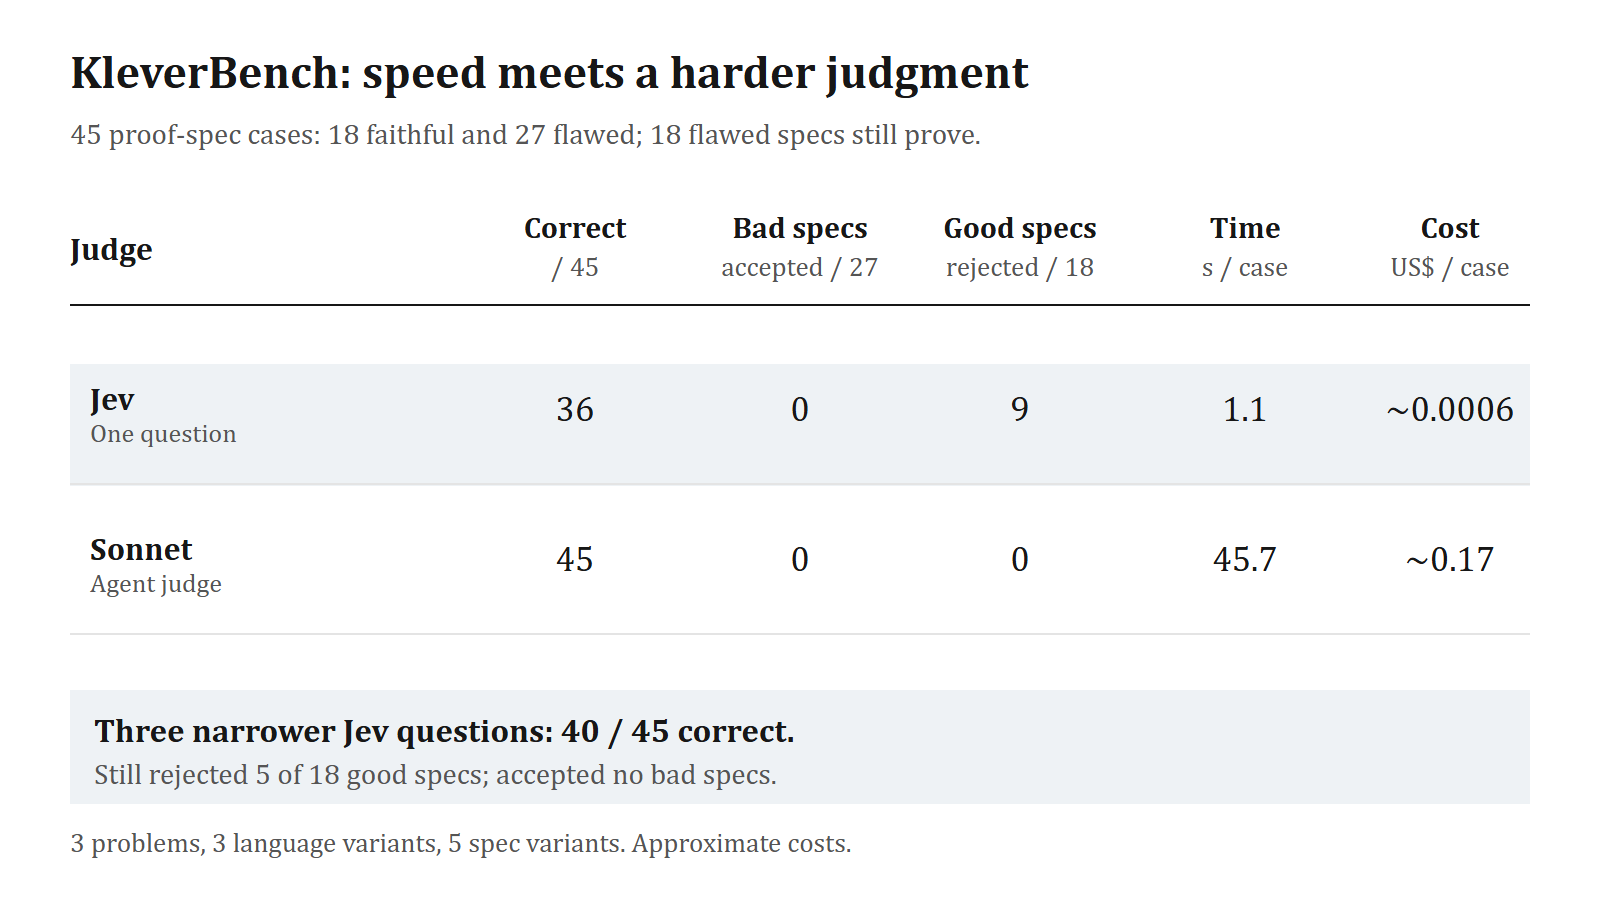
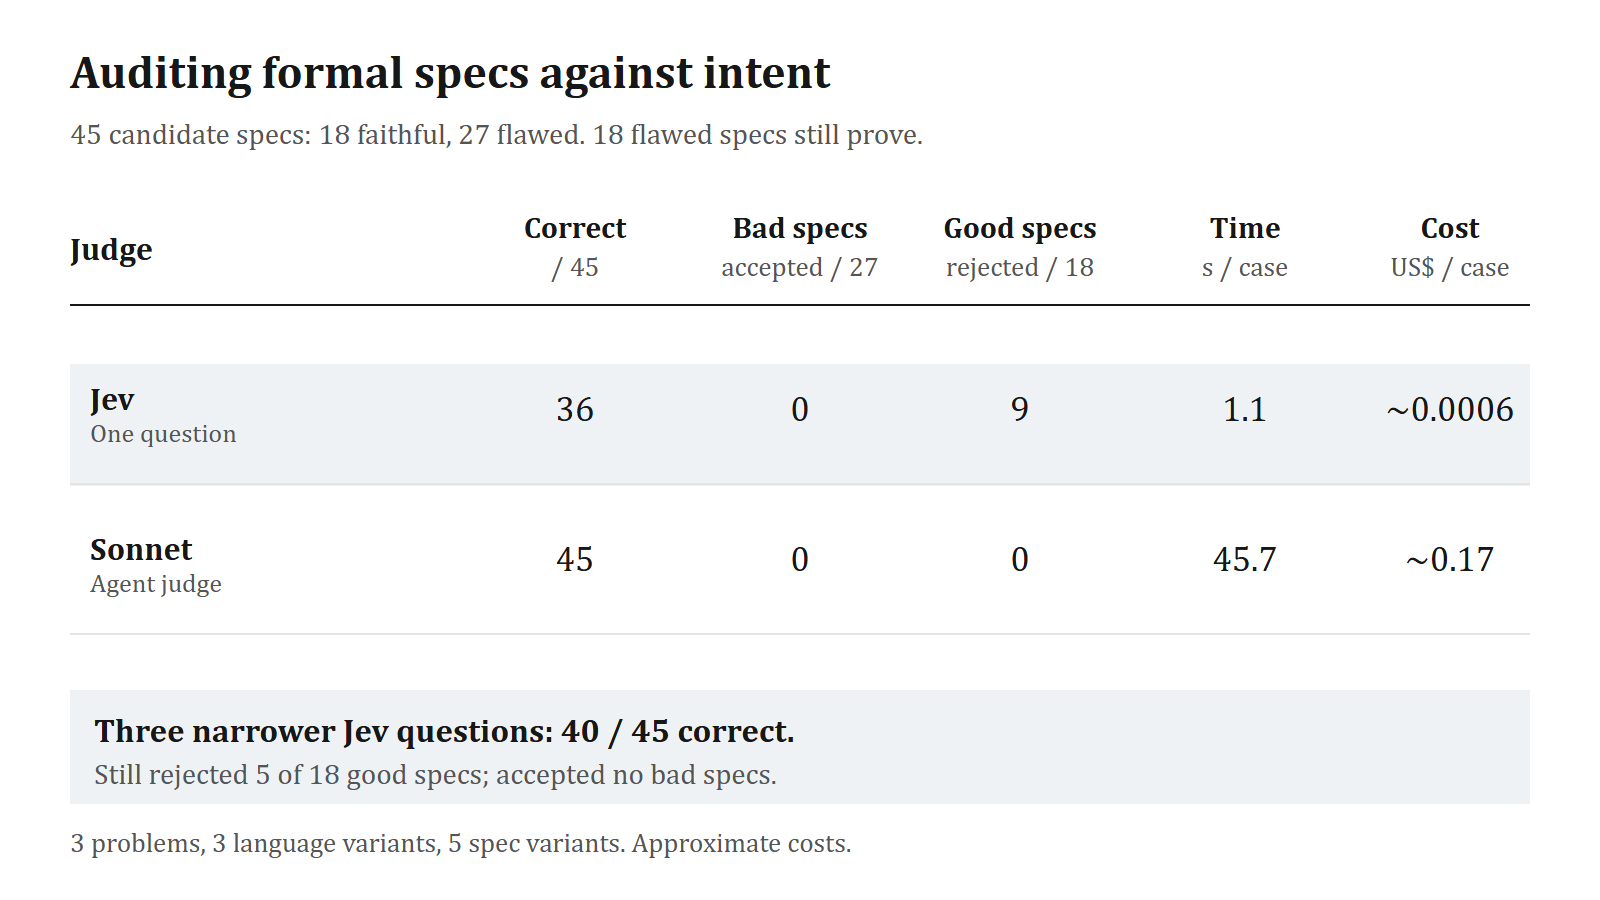
Clarify formal spec audit figure

Changed region(s): [[0.0312, 0.0622, 0.6562, 0.1867]]

diff --git a/thread/tweets.md b/thread/tweets.md
@@ -10,7 +10,7 @@ intent ↔ {code + spec + proof}
 
 Proof tools can check whether a formal claim holds. They cannot tell us whether that claim says what a person meant. Today, an LLM judge or a person has to review that gap, often repeatedly.
 
-Could a fast decision model take on some of that work? We started with a quick reproduction, then tested Jev on an applied task and finally on proof specifications from KleverBench.
+Could a fast decision model take on some of that work? We started with a quick reproduction, then tested Jev on an applied task and finally on proof specifications from our in-house verification-focused benchmark.
 
 ![The proposed intent loop connects human requirements to code, specification and proof. A decision-model judgment would ask whether the formal meaning captures the intent; formal proof tools separately check whether the claims hold.](01-judgment-in-the-intent-loop.png)
 
@@ -34,13 +34,13 @@ That gave us a useful lesson about turning fast judgments into decisions: the qu
 
 ## 4/5
 
-In KleverBench, we asked whether a candidate proof specification states what the task intended. We built 45 cases from three programs, three language variants and five spec variants: 18 faithful, 27 flawed. Eighteen of the flawed specs still prove, so proof success alone cannot catch them.
+In our in-house verification benchmark KleverBench, we asked whether a candidate proof specification states what the task intended. We built 45 cases from three programs, three language variants and five spec variants: 18 faithful, 27 flawed. Eighteen of the flawed specs still prove, so proof success alone cannot catch them.
 
 Jev's single-question verdict got 36/45 right in 1.1 seconds at about $0.0006 per case. Our Sonnet agent judge got 45/45 in 45.7 seconds at about $0.17; Luna got 43/45 in 69.6 seconds at about $0.0018. Jev accepted none of the 27 flawed specs, but rejected 9 of the 18 faithful ones.
 
 Three narrower Jev questions improved the result to 40/45, with five faithful specs still rejected. That is a striking speed and cost advantage, but not yet the accuracy we need to replace the LLM judge.
 
-![On 45 KleverBench proof-spec cases, Jev answered 36 correctly in 1.1 seconds at about 0.0006 US dollars per case, accepting no flawed specs but rejecting 9 of 18 faithful ones. The Sonnet agent judge answered all 45 correctly in 45.7 seconds at about 0.17 dollars per case. Three narrower Jev questions improved accuracy to 40 of 45, with five faithful specs still rejected.](04-kleverbench-judge-results.png)
+![On 45 cases judging whether formal specs capture stated intent, Jev answered 36 correctly in 1.1 seconds at about 0.0006 US dollars per case, accepting no flawed specs but rejecting 9 of 18 faithful ones. The Sonnet agent judge answered all 45 correctly in 45.7 seconds at about 0.17 dollars per case. Three narrower Jev questions improved accuracy to 40 of 45, with five faithful specs still rejected.](04-kleverbench-judge-results.png)
 
 ## 5/5
 
